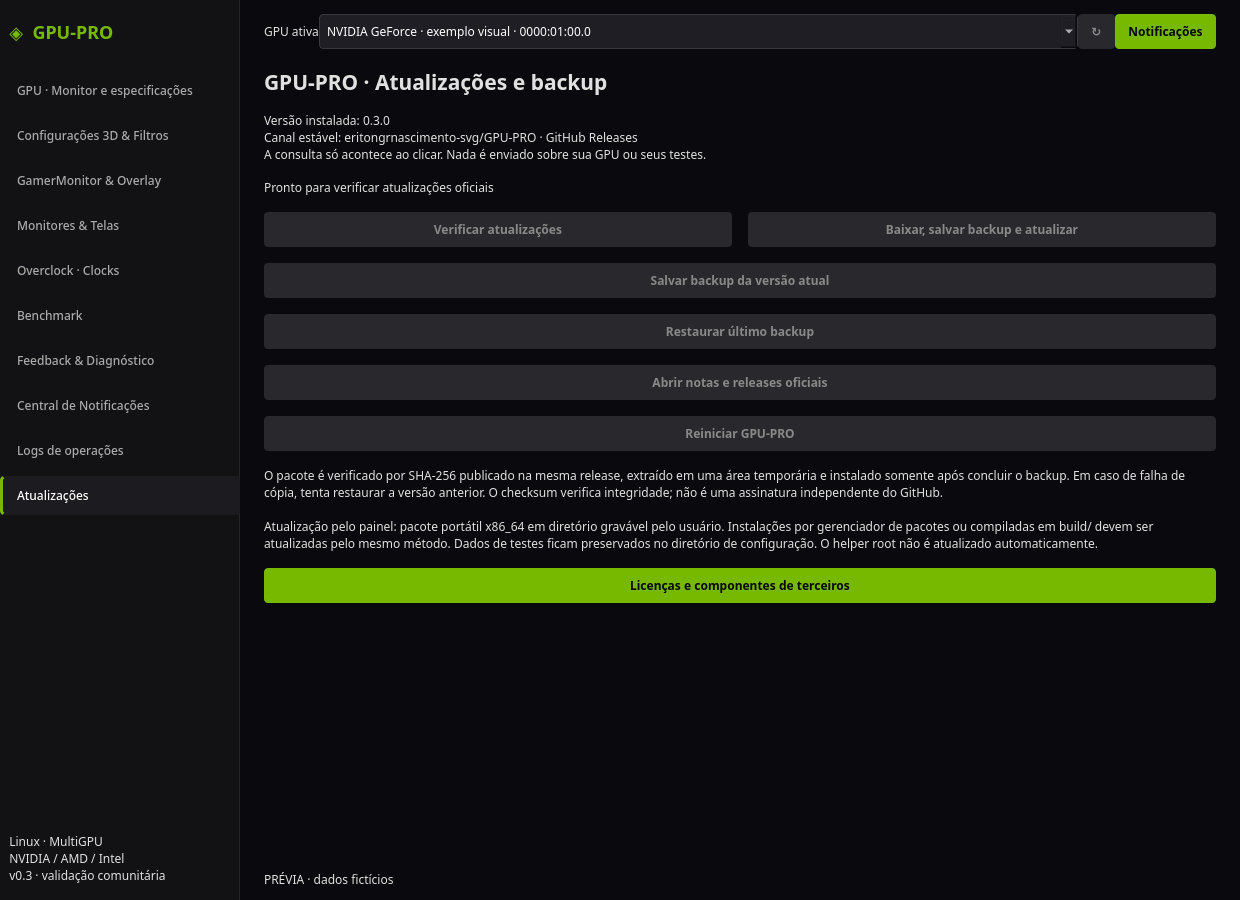
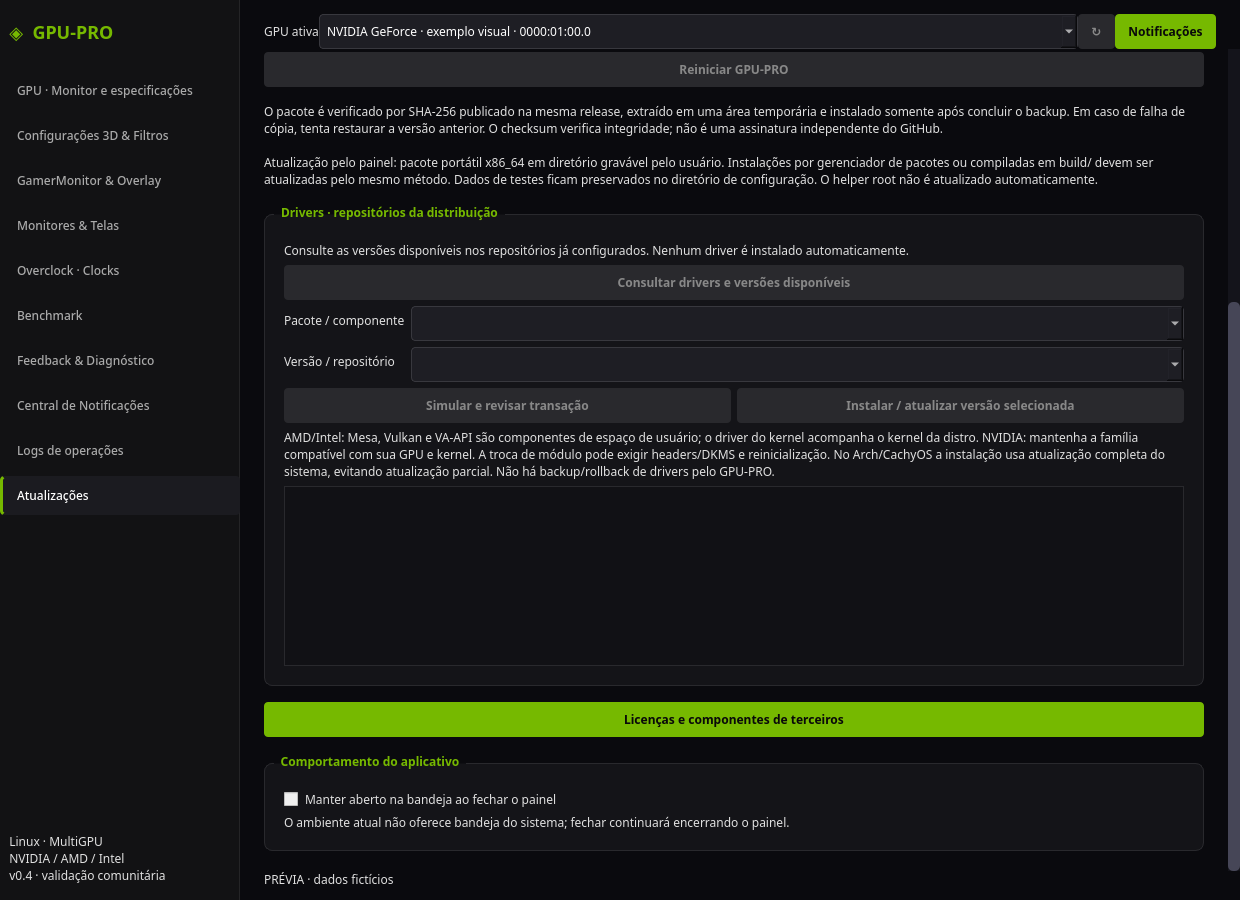
Detecta backend PackageKit e alinha fontes das bibliotecas Ubuntu

diff --git a/src/driver_packages.cpp b/src/driver_packages.cpp
@@ -18,12 +18,17 @@ QString nativePackageManager() {
   QString manager = id.contains("arch") || id.contains("cachyos") || id.contains("manjaro") ? "pacman"
       : id.contains("debian") || id.contains("ubuntu") ? "apt"
       : id.contains("fedora") || id.contains("rhel") ? "dnf" : QString{};
-  return QFileInfo(binary(manager)).isExecutable() ? manager : QString{};
+  if (QFileInfo("/run/ostree-booted").exists()) return "immutable";
+  if (id.contains("nixos") || QFileInfo("/etc/NIXOS").exists()) return "declarative";
+  if (QFileInfo(binary(manager)).isExecutable()) return manager;
+  if (QFileInfo("/usr/bin/pkcon").isExecutable()) return "packagekit";
+  return {};
+
 }
 bool driverPackageAllowed(QString name, QString vendor) {
   if (!token(name)) return false;
   bool nvidia = QRegularExpression("^(?:(?:lib32-)?nvidia(?:-[A-Za-z0-9+._-]+)*|libnvidia-[A-Za-z0-9+._-]+|linux(?:-[a-z0-9]+)*-nvidia(?:-open)?|akmod-nvidia|xorg-x11-drv-nvidia(?:-[a-z0-9-]+)?)$").match(name).hasMatch();
-  bool shared = QStringList{"mesa","lib32-mesa","mesa-vulkan-drivers","mesa-va-drivers","mesa-dri-drivers","libgl1-mesa-dri"}.contains(name);
+  bool shared = QRegularExpression("^[Mm]esa(?:[-A-Za-z0-9+._]*)$").match(name).hasMatch() || QStringList{"mesa","lib32-mesa","mesa-vulkan-drivers","mesa-va-drivers","mesa-dri-drivers","libgl1-mesa-dri"}.contains(name);
   bool amd = QStringList{"vulkan-radeon","lib32-vulkan-radeon","libva-mesa-driver","lib32-libva-mesa-driver","xf86-video-amdgpu","xf86-video-ati","firmware-amd-graphics"}.contains(name);
   bool intel = QStringList{"vulkan-intel","lib32-vulkan-intel","intel-media-driver","intel-media-va-driver","intel-media-va-driver-non-free","i965-va-driver","libva-intel-driver","xf86-video-intel","firmware-intel-graphics"}.contains(name);
   return vendor == "NVIDIA" ? nvidia : vendor == "AMD" ? amd || shared : vendor == "Intel" ? intel || shared : nvidia || shared || amd || intel;
@@ -55,6 +60,13 @@ QJsonArray parseDriverPackages(QString manager, QString text, QString vendor) {
 }
 QStringList driverTransaction(const QJsonObject &candidate, bool simulate) {
   QString manager=candidate["manager"].toString(),name=candidate["name"].toString(),version=candidate["version"].toString(),repo=candidate["repo"].toString();
+  if (manager=="packagekit") {
+    QString id=candidate["packageId"].toString();auto parts=id.split(';');
+    if(parts.size()!=4 || parts[0]!=name || parts[1]!=version || !driverPackageAllowed(name.section('/',-1)) || !token(version) || !token(parts[2]) ||
+       (!parts[3].isEmpty() && !QRegularExpression("^[A-Za-z0-9][A-Za-z0-9._:+/-]*$").match(parts[3]).hasMatch())) return {};
+    return simulate ? QStringList{"/usr/bin/pkcon","--plain","--noninteractive","get-depends",id}
+      : QStringList{"/usr/bin/pkcon","install",id};
+  }
   if (!driverPackageAllowed(name) || !token(version)) return {};
   if (manager=="pacman" && token(repo)) return simulate ? QStringList{"/usr/bin/pacman","-Sup","--needed","--print-format","%r/%n %v",repo+'/'+name+'='+version}
       : QStringList{"/usr/bin/pacman","-Syu","--needed",repo+'/'+name+'='+version};
@@ -69,7 +81,10 @@ QStringList driverTransaction(const QJsonObject &candidate, bool simulate) {
 }
 DriverCatalog::DriverCatalog(QObject *parent):QObject(parent) {
   timeout.setSingleShot(true);
-  connect(&timeout,&QTimer::timeout,this,[this]{process.kill();});
+  connect(&timeout,&QTimer::timeout,this,[this]{
+    if (dbusBusy) { dbusBusy=false; QDBusConnection::systemBus().disconnect("org.freedesktop.PackageKit",transactionPath,"org.freedesktop.PackageKit.Transaction",QString(),this,nullptr); emit listed({},"PackageKit não respondeu dentro do prazo"); }
+    else process.kill();
+  });
   connect(&process,&QProcess::readyReadStandardOutput,this,[this]{output+=process.readAllStandardOutput();if(output.size()>16*1024*1024)process.kill();});
   connect(&process,qOverload<int,QProcess::ExitStatus>(&QProcess::finished),this,&DriverCatalog::completed);
   connect(&process,&QProcess::errorOccurred,this,[this](QProcess::ProcessError error){if(error==QProcess::FailedToStart){timeout.stop();emit listed({},"Gerenciador nativo indisponível: "+process.errorString());}});
@@ -81,7 +96,9 @@ void DriverCatalog::run(QStringList args) {
 void DriverCatalog::refresh(QString selectedVendor) {
   if(busy()) return;
   manager=nativePackageManager();vendor=selectedVendor;phase=0;installed.clear();names.clear();
-  if(manager.isEmpty()){emit listed({},"Distro não suportada para instalação pelo painel. Use seu gerenciador nativo; suporte atual: APT, pacman e DNF.");return;}
+  if(manager=="immutable" || manager=="declarative") {emit listed({},manager=="immutable" ? "Sistema imutável detectado: drivers seguem deployments/atualização nativa do sistema; instalação imperativa de pacotes não foi habilitada." : "NixOS detectado: drivers são definidos na configuração declarativa e ativados por rebuild; não será executado APT, DNF ou pacman.");return;}
+  if(manager.isEmpty()){emit listed({},"Nenhum backend de instalação compatível disponível. O painel detecta gerenciador/repositórios, mas não executa comandos de outra distribuição. PackageKit com backend da distro amplia o suporte.");return;}
+  if(manager=="packagekit"){queryPackageKit();return;}
   if(manager=="pacman")run({"-Sl"});
   else if(manager=="apt")run({"pkgnames"});
   else run({"--color=never","--showduplicates","list","--available","nvidia*","akmod-nvidia","xorg-x11-drv-nvidia*","mesa-vulkan-drivers","mesa-dri-drivers","intel-media-driver"});
@@ -102,4 +119,38 @@ void DriverCatalog::completed(int code,QProcess::ExitStatus status) {
     for(int i=0;i<result.size();++i){auto row=result[i].toObject();row["installed"]=versions.value(row["name"].toString());result[i]=row;}
   }
   emit listed(result,QString("%1 · %2 opções nos repositórios configurados. Consulta usa índices locais; não adiciona repositórios nem baixa instaladores externos.").arg(manager).arg(result.size()));
+}
+
+void DriverCatalog::queryPackageKit() {
+  dbusBusy=true;backendRows={};backendError.clear();timeout.start(30000);
+  QDBusInterface service("org.freedesktop.PackageKit","/org/freedesktop/PackageKit","org.freedesktop.PackageKit",QDBusConnection::systemBus());
+  service.setTimeout(5000);
+  backendName=service.property("BackendName").toString();
+  auto *watcher=new QDBusPendingCallWatcher(service.asyncCall("CreateTransaction"),this);
+  connect(watcher,&QDBusPendingCallWatcher::finished,this,[this,watcher] {
+    QDBusPendingReply<QDBusObjectPath> reply=*watcher;watcher->deleteLater();
+    if(!dbusBusy)return;
+    if(reply.isError()){dbusBusy=false;timeout.stop();emit listed({},"Backend PackageKit indisponível: "+reply.error().message());return;}
+    transactionPath=reply.value().path();auto bus=QDBusConnection::systemBus();
+    bus.connect("org.freedesktop.PackageKit",transactionPath,"org.freedesktop.PackageKit.Transaction","Package",this,SLOT(packageReceived(uint,QString,QString)));
+    bus.connect("org.freedesktop.PackageKit",transactionPath,"org.freedesktop.PackageKit.Transaction","Finished",this,SLOT(packageQueryFinished(uint,uint)));
+    bus.connect("org.freedesktop.PackageKit",transactionPath,"org.freedesktop.PackageKit.Transaction","ErrorCode",this,SLOT(packageQueryError(uint,QString)));
+    QDBusMessage query=QDBusMessage::createMethodCall("org.freedesktop.PackageKit",transactionPath,"org.freedesktop.PackageKit.Transaction","GetPackages");
+    query<<QVariant::fromValue<qulonglong>(0);bus.asyncCall(query);
+  });
+}
+void DriverCatalog::packageReceived(uint info,QString id,QString summary) {
+  Q_UNUSED(summary);
+  if(!dbusBusy || backendRows.size()>=1500)return;
+  auto parts=id.split(';');if(parts.size()!=4 || !driverPackageAllowed(parts[0].section('/',-1),vendor) || !token(parts[1]) || !token(parts[2]))return;
+  QJsonObject row{{"manager","packagekit"},{"name",parts[0]},{"version",parts[1]},{"repo",parts[3].isEmpty()?"Backend da distro":parts[3]},
+    {"architecture",parts[2]},{"packageId",id},{"installed",info==1?parts[1]:QString{}}};
+  if(!driverTransaction(row,false).isEmpty()&&!backendRows.contains(row))backendRows.append(row);
+}
+void DriverCatalog::packageQueryError(uint code,QString details) {Q_UNUSED(code);backendError=details;}
+void DriverCatalog::packageQueryFinished(uint code,uint runtime) {
+  Q_UNUSED(runtime);if(!dbusBusy)return;dbusBusy=false;timeout.stop();
+  QDBusConnection::systemBus().disconnect("org.freedesktop.PackageKit",transactionPath,"org.freedesktop.PackageKit.Transaction",QString(),this,nullptr);
+  bool ok=code==1 && backendError.isEmpty();
+  emit listed(ok?backendRows:QJsonArray{},ok?QString("PackageKit (%1) · %2 opções dos repositórios desta distribuição. Prévia mostra dependências; confirme a transação final no gerenciador.").arg(backendName.isEmpty()?"backend nativo":backendName).arg(backendRows.size()):"O backend da distro não concluiu a consulta: "+backendError);
 }

diff --git a/src/driver_packages.h b/src/driver_packages.h
@@ -1,5 +1,6 @@
 #pragma once
 #include <QtCore>
+#include <QtDBus>
 QString nativePackageManager();
 bool driverPackageAllowed(QString package, QString vendor = {});
 QJsonArray parseDriverPackages(QString manager, QString text, QString vendor = {});
@@ -12,11 +13,20 @@ class DriverCatalog : public QObject {
   QString manager, vendor, installed, names;
   int phase = 0;
   QByteArray output;
+  bool dbusBusy = false;
+  QString transactionPath, backendError, backendName;
+  QJsonArray backendRows;
+  void queryPackageKit();
+private slots:
+  void packageReceived(uint info, QString packageId, QString summary);
+  void packageQueryFinished(uint exitCode, uint runtime);
+  void packageQueryError(uint code, QString details);
+private:
   void run(QStringList args);
   void completed(int code, QProcess::ExitStatus status);
 public:
   explicit DriverCatalog(QObject *parent = nullptr);
-  bool busy() const { return process.state() != QProcess::NotRunning; }
+  bool busy() const { return dbusBusy || process.state() != QProcess::NotRunning; }
   void refresh(QString vendor);
   ~DriverCatalog();
 signals:

diff --git a/src/checks.cpp b/src/checks.cpp
@@ -29,6 +29,10 @@ int main(int argc, char **argv) {
   check(driverTransaction({{"manager","apt"},{"name","nvidia-driver-580"},{"version","580;touch /tmp/file"}},false).isEmpty(),"reject malformed package version");
   auto apt=parseDriverPackages("apt","nvidia-driver-580 | 580.1-0ubuntu1 | http://archive.ubuntu.com/ubuntu noble/restricted amd64 Packages\n","NVIDIA");
   check(apt.size()==1 && driverTransaction(apt[0].toObject(),true).contains("--simulate"),"APT versions and simulation");
+  QJsonObject generic{{"manager","packagekit"},{"name","nvidia-drivers"},{"version","580.1"},{"packageId","nvidia-drivers;580.1;x86_64;native-repo"}};
+  check(driverTransaction(generic,false).last()=="nvidia-drivers;580.1;x86_64;native-repo","PackageKit pins native package ID and repository");
+  generic["packageId"]="bash;580.1;x86_64;native-repo";
+  check(driverTransaction(generic,false).isEmpty(),"PackageKit rejects unrelated package IDs");
   auto c = OverlayConfig::fromJson({{"font", 999},
                                     {"width", 0},
                                     {"opacity", -1},

diff --git a/tools/refresh-build-libraries.py b/tools/refresh-build-libraries.py
@@ -1,0 +1,19 @@
+#!/usr/bin/env python3
+"""Align bundled Ubuntu libraries with currently published source versions (CI only)."""
+import glob,os,re,subprocess
+files=set()
+for pattern in ['/usr/lib/x86_64-linux-gnu/libQt6*.so*','/usr/lib/x86_64-linux-gnu/qt6/plugins/*/*.so','/usr/lib/x86_64-linux-gnu/libgtk-3.so*','/usr/lib/x86_64-linux-gnu/libarchive.so*']:
+ files.update(os.path.realpath(path) for path in glob.glob(pattern))
+paths=set()
+for file in files:
+ text=subprocess.run(['ldd',file],capture_output=True,text=True).stdout
+ paths.update(re.findall(r'=> (/[^\s]+)',text));paths.add(file)
+packages=set()
+for path in paths:
+ path=os.path.realpath(path)
+ owner=subprocess.run(['dpkg-query','-S',path],capture_output=True,text=True)
+ if owner.returncode:owner=subprocess.run(['dpkg-query','-S',path.removeprefix('/usr')],capture_output=True,text=True)
+ if owner.returncode:continue
+ packages.add(owner.stdout.split(': ',1)[0].splitlines()[0])
+assert packages
+subprocess.run(['sudo','apt-get','install','--only-upgrade','-y',*sorted(packages)],check=True)

diff --git a/src/window_drivers.cpp b/src/window_drivers.cpp
@@ -10,7 +10,7 @@ QWidget *MainWindow::driversControls() {
   auto *packages = new QComboBox, *versions = new QComboBox;
   form->addRow("Pacote / componente",packages); form->addRow("Versão / repositório",versions); layout->addLayout(form);
   auto *actions = new QHBoxLayout;
-  auto *preview = new QPushButton("Simular e revisar transação");actions->addWidget(preview);
+  auto *preview = new QPushButton("Prévia / simular transação");actions->addWidget(preview);
   auto *install = new QPushButton("Instalar / atualizar versão selecionada");actions->addWidget(install);
   layout->addLayout(actions); install->setEnabled(false); preview->setEnabled(false);
   auto *details = new QLabel("AMD/Intel: Mesa, Vulkan e VA-API são componentes de espaço de usuário; o driver do kernel acompanha o kernel da distro. "

diff --git a/README.md b/README.md
@@ -146,7 +146,9 @@ A pasta do projeto passa a se chamar **GPU-PRO**, preservando históricos e conf
 
 - Especificações ajustam colunas e alturas dos cards à janela; janelas pequenas mantêm rolagem para preservar a legibilidade.
 - Gargalo aceita 720p, 1080p, 1440p, 4K e 8K como resolução alvo, com referência 720p e resumo. Os percentuais estimam o limite CPU/GPU na carga sintética com sobreposição ideal; não são perda real medida de FPS em jogos.
-- Atualizações inclui a opção de fechar para a bandeja e gerenciamento de drivers por APT, pacman e DNF, com consulta de versões, simulação e confirmação no gerenciador nativo. Não adiciona repositórios externos ou instala automaticamente. Em Arch/CachyOS usa atualização completa do sistema e versão explícita.
+- Atualizações inclui a opção de fechar para a bandeja e gerenciamento de drivers por APT, pacman, DNF e backend PackageKit da distribuição, com consulta de versões, simulação e confirmação no gerenciador nativo. Não adiciona repositórios externos ou instala automaticamente. Em Arch/CachyOS usa atualização completa do sistema e versão explícita.
 - Novos formatos: `.deb` para Ubuntu 24.04 amd64, AppImage x86_64 e executável portátil `.run`. O `.run` inclui os workers, não exige root e utiliza bibliotecas do sistema. AppImage tem base Ubuntu 24.04/glibc 2.39 ou posterior; não é universal para distribuições antigas. Consulte as fontes correspondentes das dependências incluídas no AppImage, fornecidas junto da release.
 
 AppImage e .deb consultam versões pelo painel e abrem o download oficial correspondente; a substituição desses formatos usa o instalador/arquivo original, após fechar o aplicativo. O atualizador com backup automático da pasta permanece disponível na edição portátil `.tar.gz`/`.run`.
+
+A detecção utiliza o gerenciador e os repositórios reais do sistema; PackageKit fornece um backend comum para outras distribuições quando instalado e funcional. NixOS e sistemas imutáveis são reconhecidos como declarativos/deployments e não recebem comandos de instalação imperativa de outra distro. Não existe garantia de instalação automática para qualquer distribuição Linux sem um backend compatível.

diff --git a/docs/BENCHMARKS.md b/docs/BENCHMARKS.md
@@ -37,3 +37,10 @@ FPS = quadros efetivamente reportados / tempo monotônico. Exige retorno zero e 
 Mesma cena Vulkan em 720p e 1440p, com 150 mil transformações/trigonometria CPU por quadro. Compara tempo GPU e tempo do trabalho CPU, além da razão entre tempos GPU das resoluções. Uma diferença superior a 1,5× indica predominância de uma das cargas; caso contrário, carga mista.
 
 É um diagnóstico sintético limitado, com trabalho CPU de uma thread. Não modela automaticamente motores comerciais, todas as threads, RAM, armazenamento ou PCIe. Não produz um percentual universal de gargalo do computador. A relação de tempos GPU ao mudar resolução também não equivale diretamente ao ganho de FPS de um jogo.
+
+
+## Gargalo 0.4: resolução alvo e percentuais
+
+Método `resolution-cpu-balance-v3`: referência em 720p e alvo selecionável até 8K, com o mesmo trabalho CPU de uma thread. Para tempos médios C (CPU sintética) e G (GPU), o modelo de sobreposição ideal usa F=max(C,G). Limite de CPU = 100×(1−G/F), relativo ao potencial da GPU; limite de GPU = 100×(1−C/F), relativo ao potencial da CPU. A classificação indica predominância acima de 15%, ou equilíbrio.
+
+Os percentuais são estimativas condicionadas a essa carga/modelo, não uma medição da perda de FPS em jogos. O worker executa trabalho CPU e GPU com sincronização, e a prévia custa recursos; o modelo ideal não representa exatamente seu tempo total. Tempos originais e resolução são preservados no JSON. Registros antigos continuam visíveis sem recalcular seus resultados.

diff --git a/docs/LICENCAS.md b/docs/LICENCAS.md
@@ -12,7 +12,7 @@ A restrição de redistribuição do GPU-PRO não se aplica às bibliotecas de t
 
 | Componente | Forma usada | Condições relevantes |
 | --- | --- | --- |
-| Qt Core, Gui, Widgets, Network e OpenGL | Bibliotecas compartilhadas do sistema | Módulos utilizados disponíveis sob LGPLv3. Avisos, cópias das licenças GNU aplicáveis e mecanismo de substituição por biblioteca compatível. Não há módulos Qt exclusivamente GPL declarados no CMake atual. |
+| Qt Core, Gui, Widgets, Network, OpenGL e DBus | Bibliotecas compartilhadas do sistema | Módulos utilizados disponíveis sob LGPLv3. Avisos, cópias das licenças GNU aplicáveis e mecanismo de substituição por biblioteca compatível. Não há módulos Qt exclusivamente GPL declarados no CMake atual. |
 | GTK3/GDK, GLib, Pango, GdkPixbuf e ATK | Bibliotecas compartilhadas do sistema | Família LGPL; conferir versão/opção por componente. O pacote local declara GTK LGPL-2.1-or-later e Pango LGPL-2.0-or-later. Não transformar essas bibliotecas em código proprietário. |
 | Cairo | Biblioteca compartilhada do sistema | Alternativa LGPL-2.1 ou MPL-1.1 conforme avisos do projeto. |
 | SQLite | Biblioteca compartilhada | Código de entrega dedicado ao domínio público; não exige tornar o GPU-PRO aberto. |

diff --git a/docs/VERIFICACAO.md b/docs/VERIFICACAO.md
@@ -1,3 +1,12 @@
+# Atualização 0.4 — verificações
+
+- Cinco verificações locais aprovadas, incluindo percentuais CPU/GPU, validação de versões de drivers e alcance da rolagem.
+- Layout adaptável das especificações verificado em 1240×900, com fallback de rolagem em janela menor.
+- Consulta real ao pacman/CachyOS retornou 74 opções de componentes NVIDIA; versões disponíveis e instaladas foram diferenciadas. Não foi executada instalação/atualização de drivers.
+- Ensaios curtos Vulkan com CPU sintética em 720p e 1080p concluídos. A estimativa em 1080p indicou CPU predominante, cerca de 40,3% relativo ao potencial GPU no modelo. Isso não é perda real de desempenho de jogos.
+- Nenhuma escrita de tensão, power limit ou clocks nesta etapa; helper root existente preservado.
+- Compilação/testes Ubuntu e instaladores são produzidos pelo workflow Pacotes Linux; consulte as execuções e os arquivos finais da release.
+
 # Registro de validação — GPU-PRO 0.3.0
 
 ## Atualização 0.3.0 — 10/11/2026
